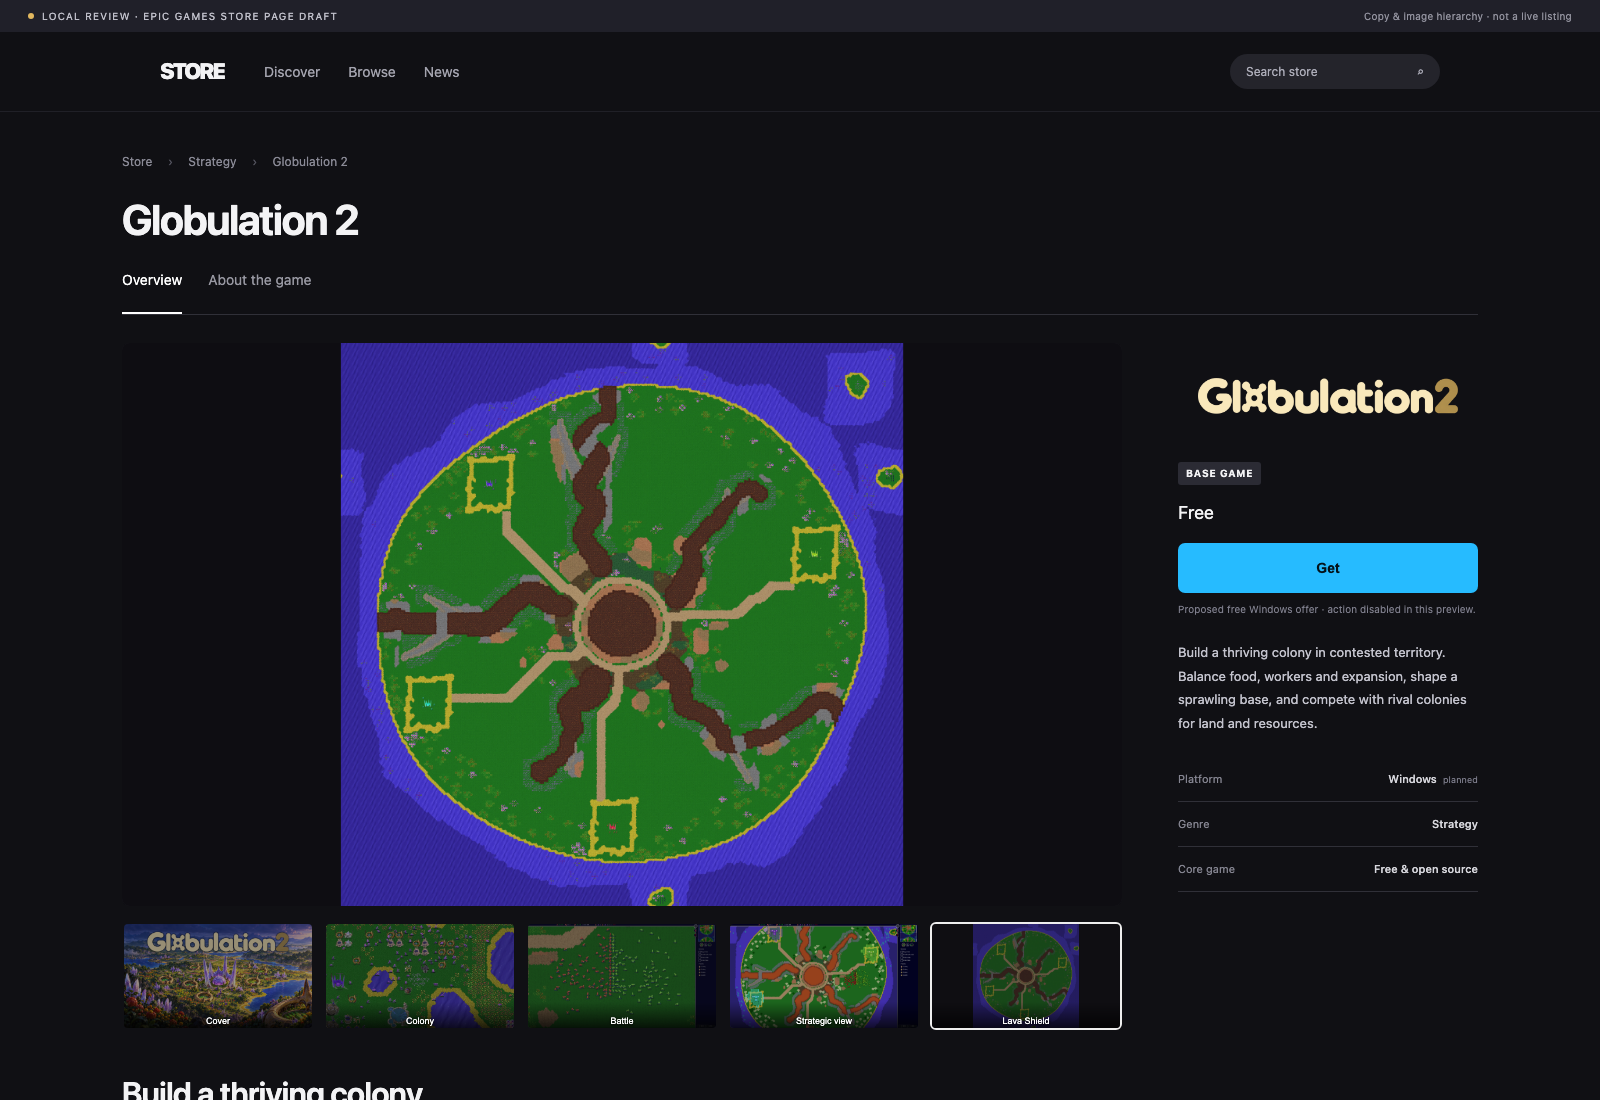
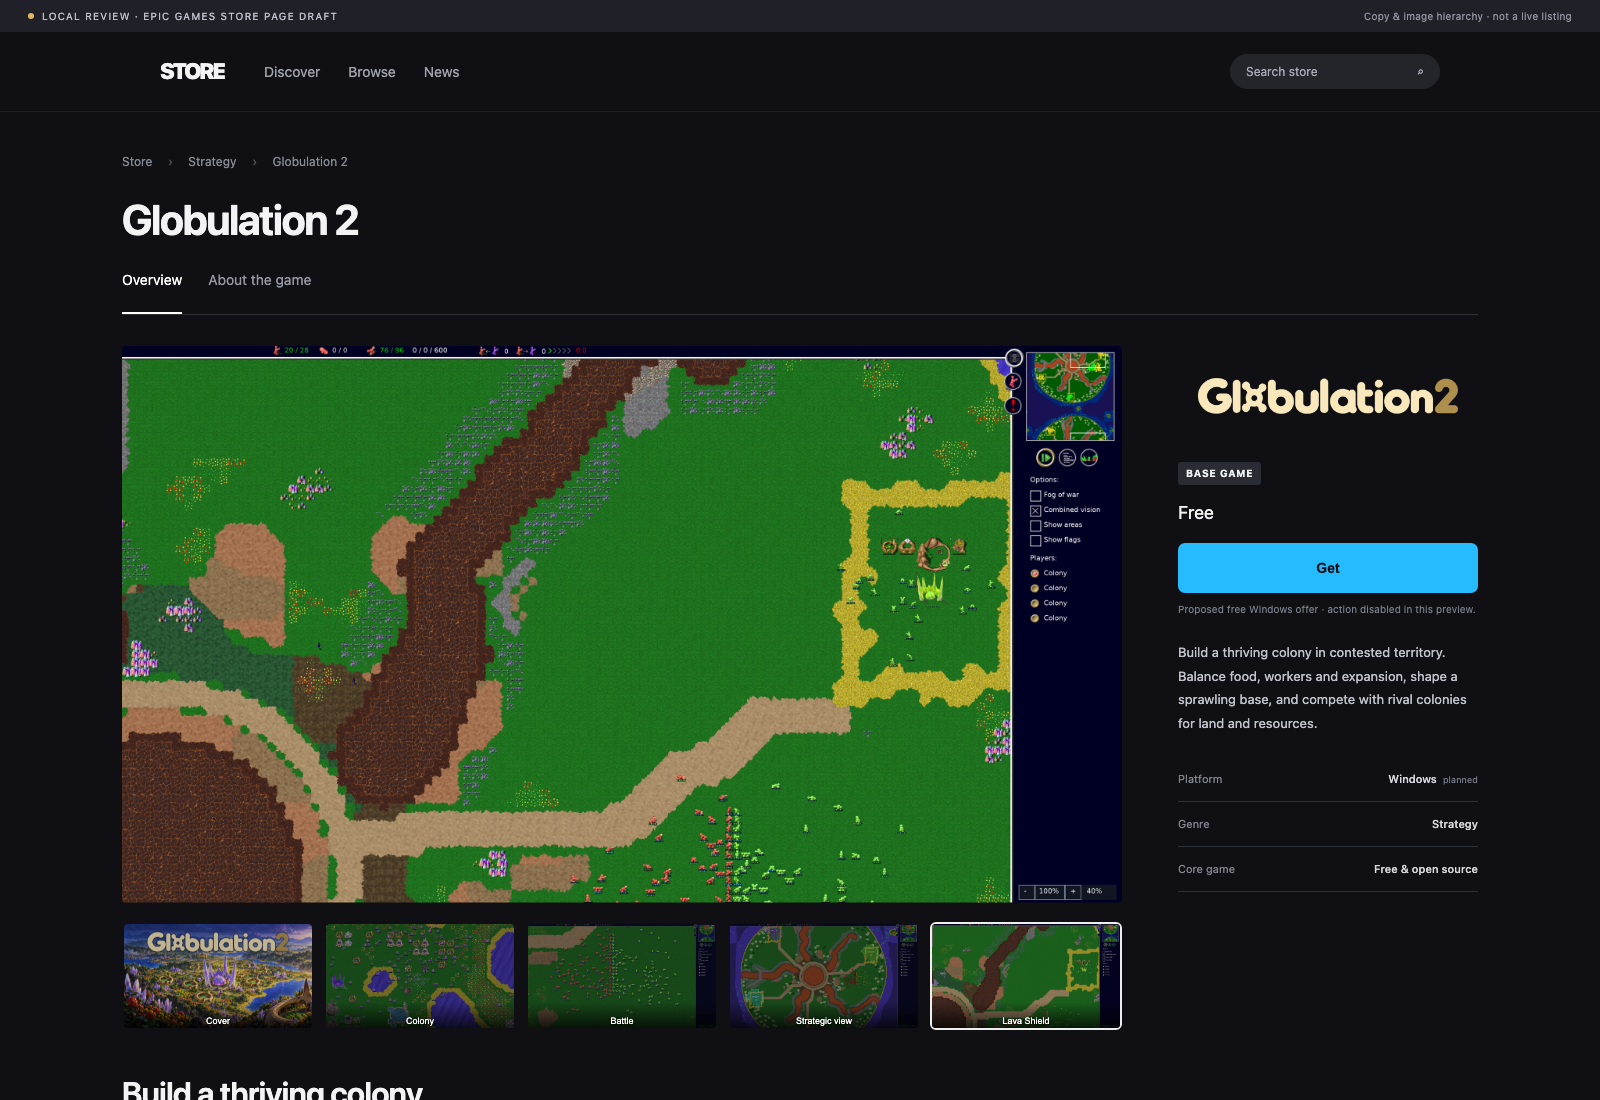
Show Lava Shield terrain in use in the store gallery
Replace only the fifth gallery image with the closer native terrain capture,
showing the lava ford, colony workers and nearby forces. This answers the user's
feedback that the full-map image duplicated the strategic view. Preserve the
approved cover, colony, battle and strategic source images byte-for-byte, and
keep the About image assignments and layout unchanged. Update source notes and
the task ledger to record the replacement and visual approval of other media.

Render and inspect the updated Lava Shield selection proof. Verify five gallery
entries, working selection, full-HUD contain framing, no broken images, disabled
Get action and no horizontal overflow at 390px. Six approved image files match
the preceding gallery exactly. Retain older overview proofs as dated references,
with the current selected proof documenting the change. Remove one trailing
blank-space line in the capture helper and update its public-source hash; native
capture pixels and state provenance are unchanged. Whitespace checks pass.

The broader map-strategy copy was already committed separately. No live store
listing was changed; release metadata, rights and Epic qualification remain
separate from this local visual review.

Changed region(s): [[0.0625, 0.3091, 0.7188, 0.9582]]

diff --git a/assets/epic-page-preview/index.html b/assets/epic-page-preview/index.html
@@ -20,7 +20,7 @@
 <button class="thumb" aria-pressed="false" data-image="media/colony.webp" data-alt="A productive colony, with workers, food, buildings and resources"><img src="media/colony.webp" alt="Colony"><span>Colony</span></button>
 <button class="thumb" aria-pressed="false" data-image="../epic-gallery-v3/lava-shield-battle.jpg" data-alt="Native in-engine battle scene with opposing red and green warriors"><img src="../epic-gallery-v3/lava-shield-battle.jpg" alt="Battle"><span>Battle</span></button>
 <button class="thumb" aria-pressed="false" data-image="../epic-gallery-v3/lava-shield-strategic.jpg" data-alt="Native strategic overview showing colony territory, building icons and opposing forces on Lava Shield"><img src="../epic-gallery-v3/lava-shield-strategic.jpg" alt="Strategic view"><span>Strategic view</span></button>
-<button class="thumb" aria-pressed="false" data-image="../epic-gallery-v2/lava-shield-map.jpg" data-alt="Lava Shield map overview showing the volcanic island, crater, branching flows and crossings"><img src="../epic-gallery-v2/lava-shield-map.jpg" alt="Lava Shield map"><span>Lava Shield</span></button>
+<button class="thumb" aria-pressed="false" data-image="../epic-gallery-v3/lava-shield-terrain-in-use.jpg" data-alt="Lava Shield in use, with colony buildings, units and routes around the lava terrain"><img src="../epic-gallery-v3/lava-shield-terrain-in-use.jpg" alt="Lava Shield terrain in use"><span>Lava Shield</span></button>
 </div>
 <section class="summary" id="about"><h2>Build a thriving colony<br>in contested territory.</h2><p>Food, workers and space shape your expansion. Grow a sprawling colony, balance its competing needs, and contend with rivals for land and resources. Your creatures act autonomously, letting you guide the colony as a whole.</p><div class="genres"><div><span>GENRES</span><p>Strategy · Real-Time Strategy</p></div><div><span>FOCUS</span><p>Colony building · Resource management</p></div></div></section>
 <section class="story"><img src="media/colony.webp" alt="A colony economy of buildings, food supplies and workers"><div class="storytext"><span class="eyebrow">FOOD. WORKERS. GROWTH.</span><h2>Grow an economy that<br>can sustain your ambitions.</h2><p>Food, construction and training compete for your workforce. Decide where workers are needed and balance new ambitions with the needs of the colony you already have.</p></div></section>
@@ -40,7 +40,7 @@
 
 </aside>
 </div>
-<footer>LOCAL CONTENT PREVIEW · Illustrated cover, colony replay, staged native gameplay scenes and Lava Shield map overview. See provenance notes.</footer>
+<footer>LOCAL CONTENT PREVIEW · Illustrated cover, colony replay, staged native gameplay scenes and Lava Shield terrain in use. See provenance notes.</footer>
 </main>
 <script src="preview.js"></script>
 </body></html>

diff --git a/assets/epic-gallery-v3/capture-terrain-scene.cpp b/assets/epic-gallery-v3/capture-terrain-scene.cpp
@@ -94,7 +94,7 @@ int main(int argc,char**argv){try{
   }
  }
  // Normal GameGUI adaptive overview, rather than a full-map exporter.
- 
+
  }
  std::cout<<"done"<<std::endl;return 0;
  }catch(const std::exception&e){std::cerr<<e.what()<<std::endl;return 1;}}

diff --git a/planning/tasks.md b/planning/tasks.md
@@ -39,10 +39,11 @@ On 2026-10-26, the user authorized completing the public platform audit and draf
 | MKT-024 | Obtain a clear large-battle capture and an actual strategic-UI view | Complete | On 2026-10-27, [representative native scene captures](../assets/epic-gallery-v3/README.md) filled both roles: actual opposing warriors/combat and the populated strategic-overview GUI. The scenario is staged in-engine, not an ordinary completed match or painted gameplay. Earlier coastal/Four Squares candidates remain rejected. Windows release qualification and naturally developed-match alternatives remain separate work. |
 | MKT-025 | Integrate and review the expanded five-entry store gallery | Complete | [Presentation](../assets/epic-page-preview/README.md) now contains Cover/Colony/Battle/Strategic view/Lava Shield, with battle and strategic images in About. Desktop/mobile, all gallery selections, native HUD/whole-map framing, image loading and provenance reviewed; no live store changes. |
 | MKT-026 | Broaden the spatial-strategy About copy beyond Lava Shield | Complete | On 2026-10-30, the [local preview](../assets/epic-page-preview/README.md) describes adapting expansion, routes and defence across different maps. The strategic image and heading remain; the copy no longer presents this section as a Lava Shield description. About rendering and whitespace reviewed; no live store change. |
+| MKT-027 | Replace the repetitive Lava Shield map image with terrain in use | Complete | On 2026-10-30, the [last gallery slot](../assets/epic-page-preview/README.md) uses a closer native staged-scene view of colony activity, units and lava terrain. The user approved the other images; their source bytes and About assignments remain unchanged. Updated selection proof, image loading, full-frame display and mobile layout checked. Whole-map source retained as historical provenance; no live store change. |
 
 The user rejected the first artwork direction on 2026-10-26 as presentation-like. Its files remain historical evidence; the current art task is a full-bleed, image-led replacement informed by actual store covers, with title hierarchy and colony/economy imagery. The first generated illustration’s globs were also rejected. The subsequent [organism-shape study](../assets/epic-v2/README.md) remains historical: it relied too heavily on a generic icon rather than preserving distinct unit proportions. The user directed use of real character images, with longer, slender workers and bulkier warriors. [Unchanged source renders and a matched comparison sheet](../assets/epic-v2/unit-references/README.md) now supply that reference. A source-reference edit still failed to preserve exact anatomy. The [actual-source cover direction](../assets/epic-v4/README.md) instead uses an unchanged game scene with the existing title, keeping the real unit shapes. The [failed source-reference illustration](../assets/epic-v3/README.md) remains historical. The source covers are native-size review drafts, not submission exports; user visual feedback, fresh high-resolution captures and store qualification remain open.
 
-**Current artwork direction:** the [v5 pack](../assets/epic-v5/README.md) is the working flagship for the professional Epic presentation. The user asked for professional execution regardless of technique. The illustration contains no generated units: real slender workers and bulkier warriors preserve source silhouettes, with team tint and environmental-scale placement. Genuine gameplay media is kept separate. The draft is not a published or user-approved store asset. The [assembled page](../assets/epic-page-preview/README.md) now shows that direction in context, with a retained colony replay, representative staged native battle/strategic captures and a distinct Lava Shield map overview. MKT-024 records the staged-scene qualification rather than an ordinary-match claim. The [fresh control screenshot](../assets/epic-gameplay-v1/README.md) was subsequently rejected for abnormal fog rendering and excluded under MKT-022. Stronger current-build mature-colony/economy/rival images, verified Windows release metadata and the actual Epic field/crop preview remain outstanding.
+**Current artwork direction:** the [v5 pack](../assets/epic-v5/README.md) is the working flagship for the professional Epic presentation. The user asked for professional execution regardless of technique. The illustration contains no generated units: real slender workers and bulkier warriors preserve source silhouettes, with team tint and environmental-scale placement. Genuine gameplay media is kept separate. On 2026-10-30, the user approved the other current images visually while requesting a different Lava Shield framing. This does not establish publication or release qualification. The [assembled page](../assets/epic-page-preview/README.md) now shows that direction in context, with a retained colony replay, representative staged native battle/strategic captures and a closer Lava Shield terrain-in-use image. MKT-024 records the staged-scene qualification rather than an ordinary-match claim. The [fresh control screenshot](../assets/epic-gameplay-v1/README.md) was subsequently rejected for abnormal fog rendering and excluded under MKT-022. Stronger current-build mature-colony/economy/rival images, verified Windows release metadata and the actual Epic field/crop preview remain outstanding.
 
 The three-player preparation task remains complete as historical work; the user cancelled its immediate execution in favor of discussion. The working v1 message is selected. Larger gameplay, access/continuity and creator studies remain deferred, without being launch prerequisites.
 

diff --git a/assets/epic-page-preview/README.md b/assets/epic-page-preview/README.md
@@ -26,11 +26,11 @@ Copy derives from the [selected positioning](../../analysis/positioning-v1.md) a
 | `media/colony.webp` | Unchanged website `public/images/home-thriving-colony.webp`, revision [6e391ebe](https://github.com/Globulation2/glob2-online-website/tree/6e391ebe93b725747827a3ed7cea78f0d0d8f7e1). Actual Fingerprint / Quick clash replay recorded 2026-10-11, tick41350, fog disabled and outer HUD cropped. It is not a fresh Epic Windows capture. |
 | [Battle](../epic-gallery-v3/lava-shield-battle.jpg) | Native GameGUI output of a staged in-engine scenario with opposing warrior forces and actual combat stepped before capture. It is not a frame recovered from an ordinary completed match. |
 | [Strategic view](../epic-gallery-v3/lava-shield-strategic.jpg) | The same staged scenario rendered through the native strategic-overview GUI, showing territory, building icons and unit markers. This demonstrates the actual overview presentation rather than substituting a flat map export. |
-| [Lava Shield map](../epic-gallery-v2/lava-shield-map.jpg) | Initial generated map rendered by the native engine. The whole island remains visible inside the delivery canvas. This fifth entry explains geography; it is not a separate match or strategic-UI screenshot. |
+| [Lava Shield terrain in use](../epic-gallery-v3/lava-shield-terrain-in-use.jpg) | A closer native view of the staged scenario, showing colony activity and units in the lava terrain. Replaces the similar whole-map framing on 2026-10-30; the strategic view remains unchanged. |
 
 The [staged capture pack](../epic-gallery-v3/README.md) records the scenario setup, actual combat observations, native renderer/HUD, source identities and export treatment. The scene was composed in the engine with real game units, buildings and terrain. No unit graphics, combat effects or interface elements were painted into the screenshots. It does not establish natural-match prevalence, player demand, game performance or Epic Windows launcher qualification.
 
-The spatial About image uses the populated strategic view, and the defence section has the battle image. On **2026-10-30**, the spatial copy was broadened to explain how different maps call for different strategies; Lava Shield remains the illustration rather than the subject of that section. Lava Shield's crater, branching flows and crossings are supported by the [map guide](https://github.com/Globulation2/glob2/blob/53110681a31d08423568afe26d5b8d8f9ac45dd1/docs/map-generators/lava-shield.md). The [map capture pack](../epic-gallery-v2/README.md) retains its separate generation/render provenance.
+The spatial About image uses the populated strategic view, and the defence section has the battle image. On **2026-10-30**, the spatial copy was broadened to explain how different maps call for different strategies; Lava Shield remains the illustration rather than the subject of that section. Lava Shield's crater, branching flows and crossings are supported by the [map guide](https://github.com/Globulation2/glob2/blob/53110681a31d08423568afe26d5b8d8f9ac45dd1/docs/map-generators/lava-shield.md). The [map capture pack](../epic-gallery-v2/README.md) retains the superseded whole-map export and its separate generation/render provenance.
 
 The old `media/expansion.webp` and `media/defence.webp` files remain historical source copies but are not referenced by the page. The [abnormal-fog controls image](../epic-gameplay-v1/README.md) also remains excluded. Earlier coastal/Four Squares renders were rejected as battle evidence; algae resources are not armies. The v5 [provenance record](../epic-v5/README.md) and [source asset ledger](../../facts/assets.md) retain art/attribution context. This local review does not complete release rights clearance.
 
@@ -47,8 +47,10 @@ Rendered in the local browser at 1600×1100 desktop and 390×844 mobile. The mob
 - [Map-strategy section — copy updated 2026-10-30](map-strategy-section.png)
 - [Battle selected](battle-selection.png)
 - [Strategic view selected](strategic-selection.png)
-- [Lava Shield map selected](lava-shield-selection.png)
+- [Lava Shield terrain selected — updated 2026-10-30](lava-shield-selection.png)
 - [Full-page review](desktop-full-page.jpg)
 - [Mobile overview](mobile-overview.png)
 
 After extending the gallery on **2026-10-27**, all review images were regenerated with local headless Chromium at the documented desktop/mobile viewports. The full-page image is a direct full-page browser render, with no stitching or content alterations. It is a local presentation review, not an Epic portal screenshot. Five entries, loaded assets, working selections, disabled Get, absence of retired/rejected-image references and no mobile overflow were checked. Delivery images and the whole map use contain framing so native HUD and map edges are preserved.
+
+On **2026-10-30**, only the fifth gallery image was replaced with the closer terrain-in-use capture after the user approved the other images and noted the whole-map/strategic duplication. The updated Lava Shield selection proof was rendered and inspected; image loading, selection, full-frame display and mobile overflow were checked. Other approved source images and About image assignments remain byte-identical. Earlier overview/full-page proofs retain their dated gallery thumbnails; the current selected proof above shows the replacement.
